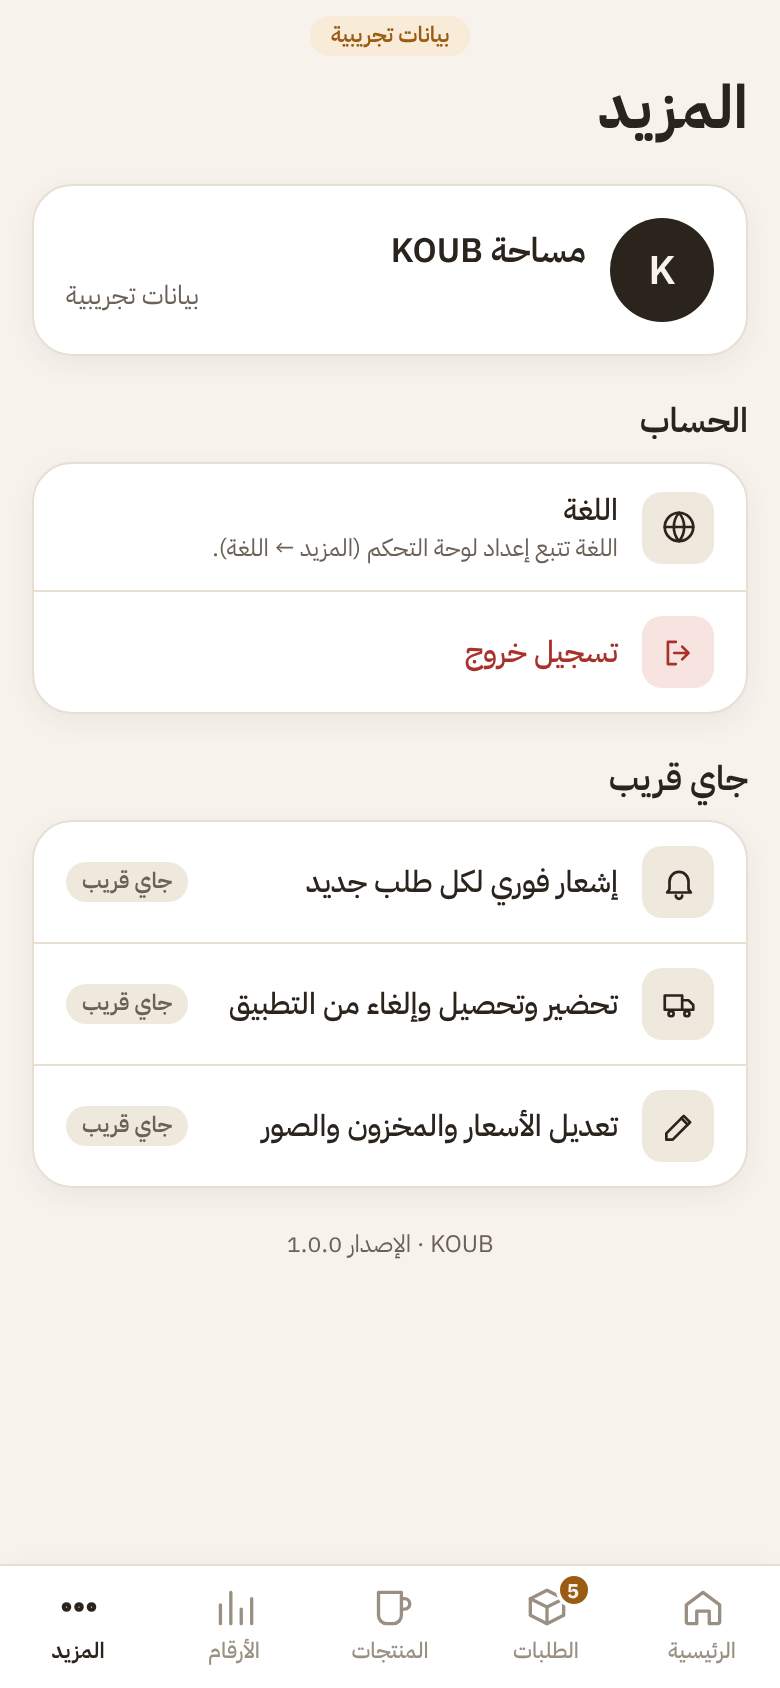
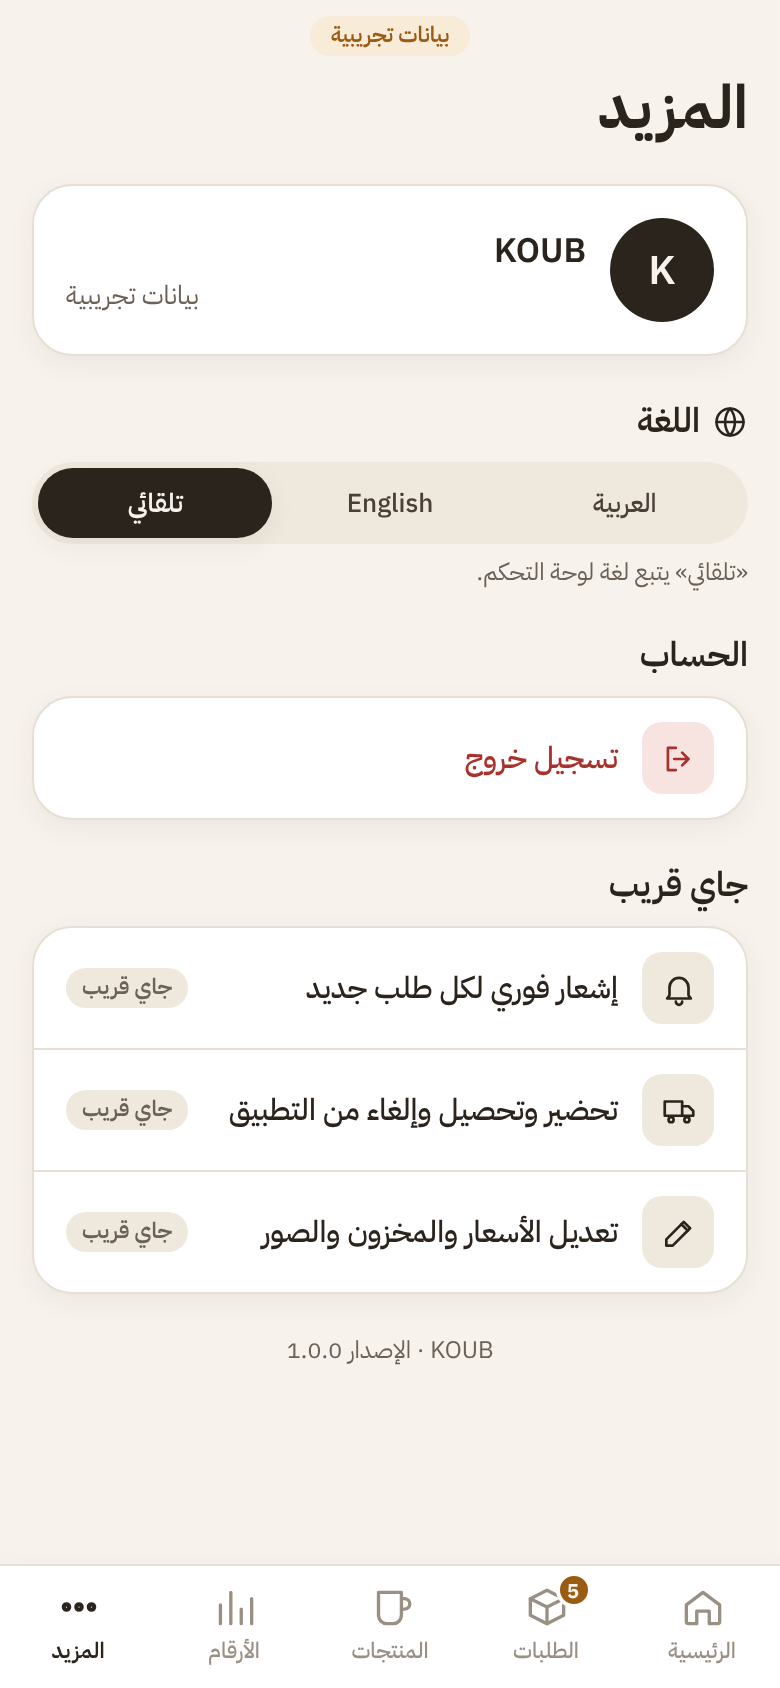
In-app language switch: Arabic, English or follow the dashboard
Language picker in More and on the sign-in screen. The choice is sent
as lang to the API so store labels switch too; the demo store has an
English version. Also fixes absolute positioning in Touch and lets
Home tile titles wrap.

Claude-Session: https://claude.ai/code/session_016kAmWq54dmZqSRMKtCTnc8

Changed region(s): [[0.0308, 0.2156, 0.9846, 0.7701], [0.4923, 0.1232, 0.7385, 0.154], [0.4, 0.5237, 0.4615, 0.5545]]

diff --git a/src/lib/demo.ts b/src/lib/demo.ts
@@ -178,9 +178,53 @@ function products(filter: string, s: string): ProductList {
   return { filter: filter as ProductList['filter'], total: rows.length, page: 1, pages: 1, counts: c, products: rows };
 }
 
+// English demo: the same invented store, translated phrase by phrase (longest first).
+const EN: [string | RegExp, string][] = [
+  ['كاش عند التوصيل · ما انحصل للحين', 'Cash on delivery · not collected yet'], ['هدية · تنتظر العنوان', 'Gift · address needed'], ['السعودية · شحن', 'Saudi Arabia · Shipping'],
+  ['دعوة المستلم يضيف عنوانه', 'Gift address invitation'], ['ينتظر عنوان مستلم الهدية.', 'Waiting for the gift recipient’s address.'], ['ينتظر منتج الطلب المسبق.', 'Waiting for the pre-order product.'],
+  ['خلص. طلع للتوصيل.', 'Done. Out for delivery.'], ['لو سمحت التوصيل بعد الساعة 6', 'Please deliver after 6'], ['كل عام وأنتِ بخير', 'Happy birthday'],
+  ['بيت 12 · طريق 3401 · مجمع 334 · المنامة', 'House 12 · Road 3401 · Block 334 · Manama'], ['حي النرجس · الرياض', 'Al Narjis · Riyadh'],
+  ['«تم تأكيد طلبك»', '“Order confirmed”'], ['«طلبك بالطريق»', '“Out for delivery”'], ['وصلت وانقرت', 'delivered and read'], ['ما وصلت', 'not delivered'],
+  ['تكلفة المنتج', 'product cost'], ['الدفع عند الاستلام', 'Cash on delivery'], ['كاش عند التوصيل', 'Cash on delivery'], ['مدفوع · بطاقة', 'Paid · Card'],
+  ['طقم كوبين · هدية', 'Two-mug gift set'], ['كوب زجاج شفاف', 'Clear glass mug'], ['كوب المنامة', 'Manama mug'], ['كوب المحرق', 'Muharraq mug'], ['كوب الرفاع', 'Riffa mug'],
+  ['كوب السيف', 'Seef mug'], ['كوب عراد', 'Arad mug'], ['كوب جدحفص', 'Jidhafs mug'], ['طلع للتوصيل', 'Out for delivery'], ['جاهز للاستلام', 'Ready for pickup'],
+  ['طلب مسبق', 'Pre-order'], ['توصيل', 'Delivery'], ['استلام', 'Pickup'], ['مدفوع', 'Paid'], ['بطاقة', 'Card'], ['وصلت', 'delivered'],
+  ['المنامة', 'Manama'], ['المحرق', 'Muharraq'], ['الرفاع', 'Riffa'], ['عيسى', 'Isa Town'], ['البحرين', 'Bahrain'], ['السعودية', 'Saudi Arabia'], ['الكويت', 'Kuwait'],
+  ['سارة م.', 'Sara M.'], ['خالد ع.', 'Khalid A.'], ['نورة ي.', 'Noora Y.'], ['أحمد س.', 'Ahmed S.'], ['ريم ح.', 'Reem H.'], ['يوسف ب.', 'Yusuf B.'], ['دانة ف.', 'Dana F.'],
+  ['عبدالله ر.', 'Abdulla R.'], ['مريم ك.', 'Maryam K.'], ['حمد ج.', 'Hamad J.'], ['فاطمة ن.', 'Fatima N.'], ['علي ط.', 'Ali T.'], ['لولوة', 'Lulwa'], ['مساحة KOUB', 'KOUB workspace'],
+  ['يناير', 'January'], ['فبراير', 'February'], ['مارس', 'March'], ['أبريل', 'April'], ['مايو', 'May'], ['يونيو', 'June'], ['يوليو', 'July'], ['أغسطس', 'August'], ['سبتمبر', 'September'], ['أكتوبر', 'October'], ['نوفمبر', 'November'], ['ديسمبر', 'December'],
+  [/^قبل (\d+) د$/, '$1 min ago'], [/^قبل ساعة$/, '1h ago'], [/^قبل ساعتين$/, '2h ago'], [/^قبل (\d+) ساعات$/, '$1h ago'], [/^قبل (\d+) أيام$/, '$1 days ago'], [/^أمس$/, 'Yesterday'], ['، ', ', '],
+];
+function english<T>(v: T): T {
+  if (typeof v === 'string') {
+    let s: string = v;
+    for (const [from, to] of EN) s = typeof from === 'string' ? s.split(from).join(to) : s.replace(from, to);
+    return s as T;
+  }
+  if (Array.isArray(v)) return v.map(english) as T;
+  if (v && typeof v === 'object') return Object.fromEntries(Object.entries(v).map(([k, x]) => [k, k === 'initial' ? x : english(x)])) as T;
+  return v;
+}
+
 export async function demo<T>(path: string, p: Record<string, string | number | undefined>): Promise<T> {
+  if (p.lang !== 'en') return demoAr<T>(path, p);
+  // Search the English names, so an English query finds English rows.
+  const q = String(p.s ?? '').toLowerCase();
+  const en = english(await demoAr<Record<string, unknown>>(path, { ...p, s: undefined }));
+  if (path === '/me') Object.assign(en, { lang: 'en', dir: 'ltr' });
+  if (path.startsWith('/orders/')) { const c = en.customer as { name: string; initial: string }; c.initial = c.name.slice(0, 1); }
+  for (const key of ['orders', 'products'] as const) {
+    if (q && Array.isArray(en[key])) {
+      const rows = (en[key] as { name: string; number?: string }[]).filter((r) => r.name.toLowerCase().includes(q) || r.number?.includes(q));
+      Object.assign(en, { [key]: rows, total: rows.length });
+    }
+  }
+  return en as T;
+}
+
+async function demoAr<T>(path: string, p: Record<string, string | number | undefined>): Promise<T> {
   await new Promise((r) => setTimeout(r, 350));
-  const me: Me = { api: 'demo', name: 'مساحة KOUB', initial: 'K', lang: 'ar', dir: 'rtl', currency: 'BHD', site: 'KOUB', whatsapp_automation: true };
+  const me: Me = { api: 'demo', name: 'KOUB', initial: 'K', lang: 'ar', dir: 'rtl', currency: 'BHD', site: 'KOUB', whatsapp_automation: true };
   if (path === '/me') return me as T;
   if (path === '/home') return home(String(p.period ?? 'today')) as T;
   if (path === '/numbers') return numbers(String(p.period ?? 'today')) as T;

diff --git a/src/lib/i18n.ts b/src/lib/i18n.ts
@@ -38,7 +38,7 @@ const ar = {
   signInTitle: 'مساحة عملك، بجيبك.', signInSub: 'الطلبات والمنتجات والأرقام، كلها في تطبيق واحد.', storeUrl: 'رابط المتجر', username: 'اسم المستخدم', appPassword: 'كلمة مرور التطبيق', signIn: 'دخول', tryDemo: 'جرّب بالبيانات التجريبية',
   appPasswordHelp: 'من ووردبريس: المستخدمين ← ملفك ← Application Passwords. اكتب اسم «KOUB App» واضغط إضافة.',
   errAuth: 'اسم المستخدم أو كلمة مرور التطبيق غلط.', errForbidden: 'حسابك ما عنده صلاحية إدارة المتجر.', errNotFound: 'ما لقينا API التطبيق على هالمتجر. تأكد إن تحديث koub-tap منزّل.', errNetwork: 'ما قدرنا نوصل للمتجر. شيك على الرابط والإنترنت.', errFields: 'عبّي كل الخانات.',
-  demoBanner: 'بيانات تجريبية', account: 'الحساب', signedInAs: 'داخل باسم {n}', store: 'المتجر', signOut: 'تسجيل خروج', faceLock: 'قفل بالبصمة / Face ID', faceLockHint: 'يطلب البصمة كل ما تفتح التطبيق.', unlock: 'افتح KOUB', version: 'الإصدار {v}', comingNext: 'جاي قريب', soonPush: 'إشعار فوري لكل طلب جديد', soonActions: 'تحضير وتحصيل وإلغاء من التطبيق', soonEdit: 'تعديل الأسعار والمخزون والصور', language: 'اللغة', languageHint: 'اللغة تتبع إعداد لوحة التحكم (المزيد ← اللغة).',
+  demoBanner: 'بيانات تجريبية', account: 'الحساب', signedInAs: 'داخل باسم {n}', store: 'المتجر', signOut: 'تسجيل خروج', faceLock: 'قفل بالبصمة / Face ID', faceLockHint: 'يطلب البصمة كل ما تفتح التطبيق.', unlock: 'افتح KOUB', version: 'الإصدار {v}', comingNext: 'جاي قريب', soonPush: 'إشعار فوري لكل طلب جديد', soonActions: 'تحضير وتحصيل وإلغاء من التطبيق', soonEdit: 'تعديل الأسعار والمخزون والصور', language: 'اللغة', languageHint: '«تلقائي» يتبع لغة لوحة التحكم.', langAuto: 'تلقائي', langAr: 'العربية', langEn: 'English',
 };
 type Key = keyof typeof ar;
 const en: Record<Key, string> = {
@@ -78,7 +78,7 @@ const en: Record<Key, string> = {
   signInTitle: 'Your workspace, in your pocket.', signInSub: 'Orders, products and numbers in one app.', storeUrl: 'Store address', username: 'Username', appPassword: 'Application password', signIn: 'Sign in', tryDemo: 'Try with demo data',
   appPasswordHelp: 'In WordPress: Users → Profile → Application Passwords. Name it “KOUB App” and tap Add.',
   errAuth: 'Wrong username or application password.', errForbidden: 'This account cannot manage the store.', errNotFound: "The app API isn't on this store yet. Make sure the koub-tap update is installed.", errNetwork: "Couldn't reach the store. Check the address and your connection.", errFields: 'Fill in every field.',
-  demoBanner: 'Demo data', account: 'Account', signedInAs: 'Signed in as {n}', store: 'Store', signOut: 'Sign out', faceLock: 'Face ID / fingerprint lock', faceLockHint: 'Asks every time you open the app.', unlock: 'Unlock KOUB', version: 'Version {v}', comingNext: 'Coming next', soonPush: 'Instant alert for every new order', soonActions: 'Prepare, collect and cancel from the app', soonEdit: 'Edit prices, stock and photos', language: 'Language', languageHint: 'Language follows your dashboard setting (More → Language).',
+  demoBanner: 'Demo data', account: 'Account', signedInAs: 'Signed in as {n}', store: 'Store', signOut: 'Sign out', faceLock: 'Face ID / fingerprint lock', faceLockHint: 'Asks every time you open the app.', unlock: 'Unlock KOUB', version: 'Version {v}', comingNext: 'Coming next', soonPush: 'Instant alert for every new order', soonActions: 'Prepare, collect and cancel from the app', soonEdit: 'Edit prices, stock and photos', language: 'Language', languageHint: '“Auto” follows your dashboard language.', langAuto: 'Auto', langAr: 'العربية', langEn: 'English',
 };
 
 export type T = (key: Key, vars?: Record<string, string | number>) => string;

diff --git a/src/lib/session.tsx b/src/lib/session.tsx
@@ -3,12 +3,14 @@
 import { createContext, useCallback, useContext, useEffect, useMemo, useState, type ReactNode } from 'react';
 import { Platform } from 'react-native';
 import * as SecureStore from 'expo-secure-store';
-import { api, type Credentials, type Session } from './api';
+import { api, setApiLang, type Credentials, type Session } from './api';
 import { translator, type T } from './i18n';
 import type { Lang, Me } from './types';
 
 const KEY = 'koub.session.v1';
 const LOCK = 'koub.lock.v1';
+const LANG = 'koub.lang.v1';
+export type LangPref = 'auto' | Lang;
 
 // Web is only used for previews; it keeps nothing after the tab closes.
 const store = {
@@ -24,6 +26,8 @@ type Ctx = {
   lang: Lang;
   t: T;
   lock: boolean;
+  langPref: LangPref;
+  setLangPref: (p: LangPref) => Promise<void>;
   signIn: (c: Credentials) => Promise<void>;
   signInDemo: () => Promise<void>;
   signOut: () => Promise<void>;
@@ -36,12 +40,15 @@ export function SessionProvider({ children }: { children: ReactNode }) {
   const [session, setSession] = useState<Session | null>(null);
   const [me, setMe] = useState<Me | null>(null);
   const [lock, setLockState] = useState(false);
+  const [langPref, setPref] = useState<LangPref>('auto');
 
   useEffect(() => {
     (async () => {
       try {
         const raw = await store.get(KEY);
         setLockState((await store.get(LOCK)) === '1');
+        const pref = await store.get(LANG);
+        if (pref === 'ar' || pref === 'en') { setPref(pref); setApiLang(pref); }
         if (raw) {
           const saved = JSON.parse(raw) as { session: Session; me: Me };
           setSession(saved.session);
@@ -63,15 +70,17 @@ export function SessionProvider({ children }: { children: ReactNode }) {
   }, []);
 
   const value = useMemo<Ctx>(() => {
-    const lang: Lang = me?.lang ?? 'ar';
+    const lang: Lang = langPref === 'auto' ? me?.lang ?? 'ar' : langPref;
     return {
-      ready, session, me, lang, t: translator(lang), lock,
+      ready, session, me, lang, t: translator(lang), lock, langPref,
+      // The caller refetches its data so labels from the store switch too.
+      setLangPref: async (p) => { await store.set(LANG, p); setApiLang(p === 'auto' ? undefined : p); setPref(p); },
       signIn: (c) => begin(c),
       signInDemo: () => begin({ demo: true }),
       signOut: async () => { await store.del(KEY); setSession(null); setMe(null); },
       setLock: async (on) => { await store.set(LOCK, on ? '1' : '0'); setLockState(on); },
     };
-  }, [ready, session, me, lock, begin]);
+  }, [ready, session, me, lock, langPref, begin]);
 
   return <SessionContext.Provider value={value}>{children}</SessionContext.Provider>;
 }

diff --git a/src/app/login.tsx b/src/app/login.tsx
@@ -4,11 +4,11 @@ import { useSafeAreaInsets } from 'react-native-safe-area-context';
 import { ApiError, normalizeSite } from '../lib/api';
 import { useSession } from '../lib/session';
 import { color, font, radius, space } from '../lib/theme';
-import { Button, Muted, Txt } from '../components/ui';
+import { Button, Muted, Touch, Txt } from '../components/ui';
 import { Icon } from '../components/Icon';
 
 export default function Login() {
-  const { t, signIn, signInDemo } = useSession();
+  const { t, lang, signIn, signInDemo, setLangPref } = useSession();
   const insets = useSafeAreaInsets();
   const [site, setSite] = useState('koubbh.com');
   const [user, setUser] = useState('');
@@ -33,6 +33,10 @@ export default function Login() {
   return (
     <KeyboardAvoidingView style={{ flex: 1, backgroundColor: color.bg }} behavior={Platform.OS === 'ios' ? 'padding' : undefined}>
       <ScrollView contentContainerStyle={{ paddingTop: insets.top + 56, paddingBottom: insets.bottom + 32, paddingHorizontal: space.xl, flexGrow: 1 }} keyboardShouldPersistTaps="handled">
+        <Touch onPress={() => setLangPref(lang === 'ar' ? 'en' : 'ar')} style={[st.langBtn, { top: insets.top + 12 }]} accessibilityLabel={t('language')}>
+          <Icon name="globe" size={16} />
+          <Txt size={13} weight="semibold">{lang === 'ar' ? 'English' : 'العربية'}</Txt>
+        </Touch>
         <Txt size={52} center style={{ fontFamily: font.brand, letterSpacing: 6, lineHeight: 60 }} ltr>KOUB</Txt>
         <Muted center size={11} style={{ letterSpacing: 2.5, marginBottom: 40 }} ltr>YOUR DAILY WORKSPACE</Muted>
         <Txt size={26} weight="bold">{t('signInTitle')}</Txt>
@@ -84,5 +88,6 @@ function Field({ label, value, onChange, icon, secure, keyboard, onSubmit }: { l
 const st = StyleSheet.create({
   input: { flexDirection: 'row', alignItems: 'center', gap: 10, height: 52, borderRadius: radius.md, backgroundColor: color.surface, borderWidth: 1, borderColor: color.line, paddingHorizontal: 14 },
   text: { flex: 1, minWidth: 0, fontFamily: font.medium, fontSize: 15, color: color.ink, textAlign: 'left', writingDirection: 'ltr', height: 50 },
+  langBtn: { position: 'absolute', end: space.xl, flexDirection: 'row', alignItems: 'center', gap: 6, paddingHorizontal: 12, paddingVertical: 6, borderRadius: radius.pill, backgroundColor: color.surface, borderWidth: StyleSheet.hairlineWidth, borderColor: color.line, zIndex: 2 },
   error: { flexDirection: 'row', gap: 8, alignItems: 'center', backgroundColor: color.redBg, borderRadius: radius.sm, padding: 12, marginBottom: space.md },
 });

diff --git a/src/app/(tabs)/more.tsx b/src/app/(tabs)/more.tsx
@@ -5,11 +5,12 @@ import * as LocalAuthentication from 'expo-local-authentication';
 import { useQueryClient } from '@tanstack/react-query';
 import { useSession } from '../../lib/session';
 import { color, radius, space } from '../../lib/theme';
-import { Card, Muted, Row, Screen, SectionTitle, Touch, Txt } from '../../components/ui';
+import { Card, Muted, Row, Screen, SectionTitle, Segmented, Touch, Txt } from '../../components/ui';
+import type { LangPref } from '../../lib/session';
 import { Icon, type IconName } from '../../components/Icon';
 
 export default function More() {
-  const { t, me, session, lock, setLock, signOut } = useSession();
+  const { t, me, session, lock, setLock, signOut, langPref, setLangPref } = useSession();
   const client = useQueryClient();
   const [canLock, setCanLock] = useState(false);
   useEffect(() => {
@@ -30,12 +31,20 @@ export default function More() {
         </Row>
       </Card>
 
+      <SectionTitle title={t('language')} icon="globe" />
+      <Segmented<LangPref>
+        items={[['ar', t('langAr')], ['en', t('langEn')], ['auto', t('langAuto')]]}
+        value={langPref}
+        // Refetch so tags and statuses from the store come back in the new language too.
+        onChange={async (p) => { await setLangPref(p); client.invalidateQueries(); }}
+      />
+      <Muted size={12} style={{ marginTop: 6 }}>{t('languageHint')}</Muted>
+
       <SectionTitle title={t('account')} />
       <Card padded={false}>
         {canLock && (
           <Item icon="lock" label={t('faceLock')} sub={t('faceLockHint')} right={<Switch value={lock} onValueChange={setLock} trackColor={{ true: color.ink, false: color.line }} />} />
         )}
-        <Item icon="globe" label={t('language')} sub={t('languageHint')} />
         <Item icon="logout" label={t('signOut')} danger last onPress={async () => { client.clear(); await signOut(); }} />
       </Card>
 

diff --git a/src/lib/api.ts b/src/lib/api.ts
@@ -1,5 +1,5 @@
 // Client for koub/v1/app. Signs in with a WordPress Application Password (HTTP Basic over HTTPS).
-import type { Home, HomePeriod, Me, Numbers, NumbersPeriod, Order, OrderList, OrderView, PrepareView, ProductFilter, ProductList } from './types';
+import type { Home, HomePeriod, Lang, Me, Numbers, NumbersPeriod, Order, OrderList, OrderView, PrepareView, ProductFilter, ProductList } from './types';
 import { demo } from './demo';
 
 export type Credentials = { site: string; user: string; password: string };
@@ -33,7 +33,12 @@ function query(params: Record<string, string | number | undefined>): string {
   return q.length ? '?' + q.join('&') : '';
 }
 
+// The app's own language choice; unset means the dashboard setting. /me always reports the dashboard setting.
+let appLang: Lang | undefined;
+export function setApiLang(lang: Lang | undefined) { appLang = lang; }
+
 async function get<T>(session: Session, path: string, params: Record<string, string | number | undefined> = {}): Promise<T> {
+  if (path !== '/me') params = { ...params, lang: appLang };
   if ('demo' in session) return demo<T>(path, params);
   let res: Response;
   try {

diff --git a/src/components/ui.tsx b/src/components/ui.tsx
@@ -27,7 +27,7 @@ export const Muted = (p: Parameters<typeof Txt>[0]) => <Txt size={13} tint={colo
 
 // Press feedback like native apps: a quick shrink, plus a light tap on phones.
 // Size and placement keys belong to the pressable box, so flex and % widths work like on a plain View.
-const OUTER = ['flex', 'flexGrow', 'flexShrink', 'flexBasis', 'width', 'minWidth', 'maxWidth', 'alignSelf', 'margin', 'marginTop', 'marginBottom', 'marginStart', 'marginEnd', 'marginHorizontal', 'marginVertical'] as const;
+const OUTER = ['position', 'top', 'bottom', 'start', 'end', 'left', 'right', 'zIndex', 'flex', 'flexGrow', 'flexShrink', 'flexBasis', 'width', 'minWidth', 'maxWidth', 'alignSelf', 'margin', 'marginTop', 'marginBottom', 'marginStart', 'marginEnd', 'marginHorizontal', 'marginVertical'] as const;
 export function Touch({ children, style, onPress, haptic = true, disabled, ...rest }: PressableProps & { style?: StyleProp<ViewStyle>; haptic?: boolean; children: ReactNode }) {
   const scale = useRef(new Animated.Value(1)).current;
   const flat = { ...(StyleSheet.flatten(style) ?? {}) } as Record<string, unknown>;

diff --git a/src/app/(tabs)/index.tsx b/src/app/(tabs)/index.tsx
@@ -138,7 +138,7 @@ function Tile({ icon, tint, title, value, sub, onPress }: { icon: IconName; tint
   return (
     <Touch onPress={onPress} style={st.tile}>
       <Row style={{ justifyContent: 'space-between' }}>
-        <Txt size={13} weight="semibold" tint={zero ? color.muted : tone[tint].fg} style={{ flex: 1 }} lines={1}>{title}</Txt>
+        <Txt size={13} weight="semibold" tint={zero ? color.muted : tone[tint].fg} style={{ flex: 1 }} lines={2}>{title}</Txt>
         <View style={[st.tileIcon, { backgroundColor: zero ? color.sunken : tone[tint].bg }]}><Icon name={icon} size={16} tint={zero ? color.muted : tone[tint].fg} /></View>
       </Row>
       <Txt size={30} weight="bold" style={{ letterSpacing: -0.5, marginTop: 2 }} ltr>{value}</Txt>

diff --git a/src/app/order/[id].tsx b/src/app/order/[id].tsx
@@ -226,7 +226,7 @@ function Profit({ o }: { o: Order }) {
           {p.costs[k].value === null ? <TagChip label={t('missing')} tone="amber" small /> : <Txt size={14} weight="medium" ltr>{'−' + num(p.costs[k].value!)}</Txt>}
         </Row>
       ))}
-      {p.missing_products.length > 0 && <Muted size={12} style={{ marginTop: 6 }}>{p.missing_products.join('، ')}</Muted>}
+      {p.missing_products.length > 0 && <Muted size={12} style={{ marginTop: 6 }}>{p.missing_products.join(lang === 'ar' ? '، ' : ', ')}</Muted>}
       <Muted size={12} style={{ marginTop: 6 }}>{t('beforeAds')}</Muted>
     </Card>
   );

diff --git a/README.md b/README.md
@@ -7,7 +7,9 @@ Built with Expo (React Native) and Expo Router.
 | --- | --- | --- | --- | --- |
 | ![](docs/screens/1-home.png) | ![](docs/screens/2-orders.png) | ![](docs/screens/3-order.png) | ![](docs/screens/4-numbers.png) | ![](docs/screens/5-products.png) |
 
-Screens show invented demo data.
+| ![](docs/screens/en/1-home.png) | ![](docs/screens/en/2-orders.png) | ![](docs/screens/en/3-order.png) | ![](docs/screens/en/4-numbers.png) | ![](docs/screens/en/6-more.png) |
+
+Screens show invented demo data, in Arabic and English.
 
 ## Phase 1 (this version)
 - Sign in with the store address, username and a WordPress **Application Password**. Credentials stay in the phone's keychain.
@@ -16,6 +18,7 @@ Screens show invented demo data.
 - **Order**: progress, customer with WhatsApp / Call / Copy, gift details, items and totals, payment, profit before ads, WhatsApp messages and the order log.
 - **Numbers**: profit, KPIs, sales chart, where the money went, ads return, card and cash, best sellers, countries, order mix, abandoned carts.
 - **Products**: stock buckets, search, price and unit profit, waiting stock alerts.
+- **Language**: Arabic or English inside the app (More, or the button on the sign-in screen), or Auto to follow the dashboard. Store labels switch too.
 - **More**: Face ID / fingerprint lock, sign out.
 - Demo mode (“Try with demo data”) with invented data, no store needed.
 - Pull to refresh, skeleton loading, haptics, refresh when the app returns to the foreground.
